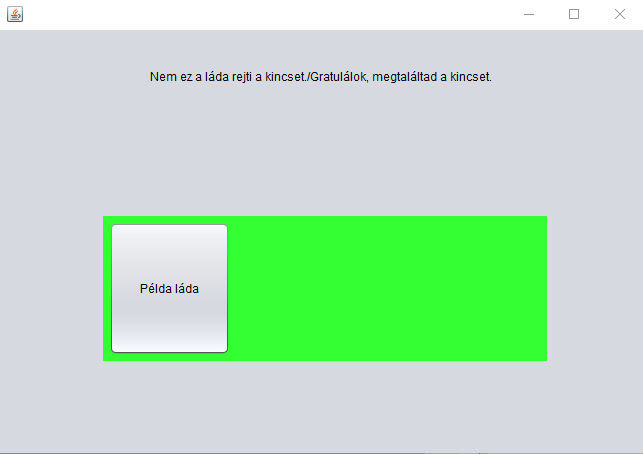
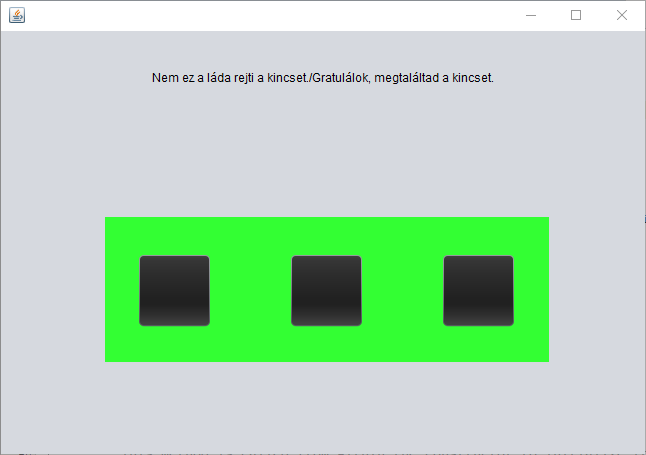
jobb GUI

diff --git a/src/program/MainGUI.java b/src/program/MainGUI.java
@@ -4,6 +4,7 @@
  */
 package program;
 
+import java.awt.BorderLayout;
 import java.awt.Color;
 import javax.swing.JButton;
 import objektumok.LadaGomb;
@@ -25,20 +26,22 @@ public class MainGUI extends javax.swing.JFrame {
         gombs();
     }
     
-    public void gombs(){
+    public final void gombs(){
         String[] feliratok = k.getFeliratok();
         Kincseslada.Szinek[] szinek = k.getSzinek();
         ladak = new LadaGomb[feliratok.length];
         
         for (int i = 0; i < feliratok.length; i++) {
-            ladak[i] = new LadaGomb((byte)(i+1), k.getSzinek(szinek[i]), "", "");
+            ladak[i] = new LadaGomb((byte)(i+1), k.getSzinek(szinek[i]), (i*152)+32, 36, "", "");
         }
         
-        Pn_ladak.removeAll();
+        //Pn_ladak.removeAll();
+        
+       // Pn_ladak.setLayout(new BorderLayout());
         for (int i = 0; i < ladak.length; i++) {
             Pn_ladak.add(ladak[i]);
         }
-        Pn_ladak.updateUI();
+        Pn_ladak.repaint();
     }
 
     /**
@@ -51,30 +54,21 @@ public class MainGUI extends javax.swing.JFrame {
     private void initComponents() {
 
         Pn_ladak = new javax.swing.JPanel();
-        jButton1 = new javax.swing.JButton();
         jLabel1 = new javax.swing.JLabel();
 
         setDefaultCloseOperation(javax.swing.WindowConstants.EXIT_ON_CLOSE);
 
         Pn_ladak.setBackground(new java.awt.Color(51, 255, 51));
 
-        jButton1.setText("Példa láda");
-
         javax.swing.GroupLayout Pn_ladakLayout = new javax.swing.GroupLayout(Pn_ladak);
         Pn_ladak.setLayout(Pn_ladakLayout);
         Pn_ladakLayout.setHorizontalGroup(
             Pn_ladakLayout.createParallelGroup(javax.swing.GroupLayout.Alignment.LEADING)
-            .addGroup(Pn_ladakLayout.createSequentialGroup()
-                .addContainerGap()
-                .addComponent(jButton1, javax.swing.GroupLayout.PREFERRED_SIZE, 121, javax.swing.GroupLayout.PREFERRED_SIZE)
-                .addContainerGap(317, Short.MAX_VALUE))
+            .addGap(0, 444, Short.MAX_VALUE)
         );
         Pn_ladakLayout.setVerticalGroup(
             Pn_ladakLayout.createParallelGroup(javax.swing.GroupLayout.Alignment.LEADING)
-            .addGroup(Pn_ladakLayout.createSequentialGroup()
-                .addContainerGap()
-                .addComponent(jButton1, javax.swing.GroupLayout.DEFAULT_SIZE, 133, Short.MAX_VALUE)
-                .addContainerGap())
+            .addGap(0, 145, Short.MAX_VALUE)
         );
 
         jLabel1.setText("Nem ez a láda rejti a kincset./Gratulálok, megtaláltad a kincset.");
@@ -88,7 +82,7 @@ public class MainGUI extends javax.swing.JFrame {
                 .addComponent(jLabel1, javax.swing.GroupLayout.PREFERRED_SIZE, 350, javax.swing.GroupLayout.PREFERRED_SIZE)
                 .addContainerGap(javax.swing.GroupLayout.DEFAULT_SIZE, Short.MAX_VALUE))
             .addGroup(javax.swing.GroupLayout.Alignment.TRAILING, layout.createSequentialGroup()
-                .addContainerGap(104, Short.MAX_VALUE)
+                .addGap(104, 104, 104)
                 .addComponent(Pn_ladak, javax.swing.GroupLayout.PREFERRED_SIZE, javax.swing.GroupLayout.DEFAULT_SIZE, javax.swing.GroupLayout.PREFERRED_SIZE)
                 .addGap(96, 96, 96))
         );
@@ -97,7 +91,7 @@ public class MainGUI extends javax.swing.JFrame {
             .addGroup(layout.createSequentialGroup()
                 .addGap(27, 27, 27)
                 .addComponent(jLabel1, javax.swing.GroupLayout.PREFERRED_SIZE, 39, javax.swing.GroupLayout.PREFERRED_SIZE)
-                .addPreferredGap(javax.swing.LayoutStyle.ComponentPlacement.RELATED, 120, Short.MAX_VALUE)
+                .addGap(120, 120, 120)
                 .addComponent(Pn_ladak, javax.swing.GroupLayout.PREFERRED_SIZE, javax.swing.GroupLayout.DEFAULT_SIZE, javax.swing.GroupLayout.PREFERRED_SIZE)
                 .addGap(92, 92, 92))
         );
@@ -142,7 +136,6 @@ public class MainGUI extends javax.swing.JFrame {
 
     // Variables declaration - do not modify//GEN-BEGIN:variables
     private javax.swing.JPanel Pn_ladak;
-    private javax.swing.JButton jButton1;
     private javax.swing.JLabel jLabel1;
     // End of variables declaration//GEN-END:variables
 }

diff --git a/src/objektumok/LadaGomb.java b/src/objektumok/LadaGomb.java
@@ -17,13 +17,14 @@ public class LadaGomb extends JButton {
     String kepcsukva, kepnyitva;
     boolean nyitva;
     
-    public LadaGomb(byte ladaszam, Color szin, String kepcsukva, String kepnyitva){
+    public LadaGomb(byte ladaszam, Color szin, int x, int y, String kepcsukva, String kepnyitva){
         this.ladaszam = ladaszam;
         this.setBackground(szin);
         this.kepnyitva = kepnyitva;
         this.kepcsukva = kepcsukva;
         
         this.setSize(new Dimension(75, 75));
+        this.setLocation(x, y);
     }
     
     public void kinyit(boolean vanbenne){
